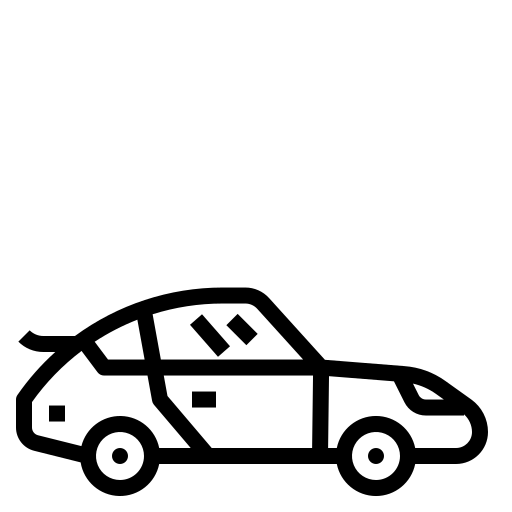
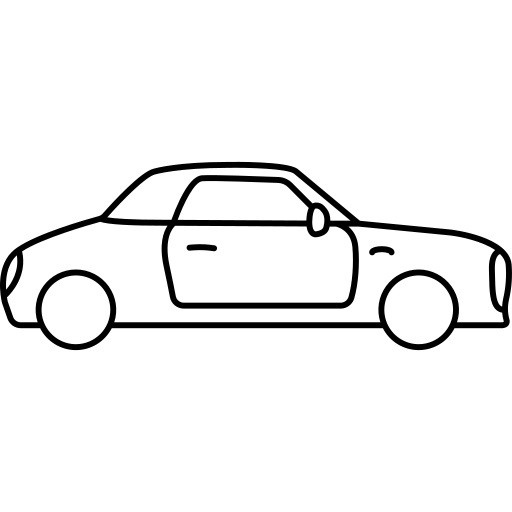
images didn't match. now they do.

diff --git a/index.html b/index.html
@@ -34,7 +34,10 @@
         <button class="suv">Learn more</button>
       </div>
       <div class="col grey">
-        <a href="https://www.flaticon.com/free-icons/ferrari" target="_blank">
+        <a
+          href="https://www.flaticon.com/free-icons/pickup-car"
+          target="_blank"
+        >
           <img
             src="images/ferrari.png"
             alt="a small picture of a ferrari"
